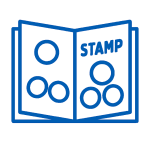
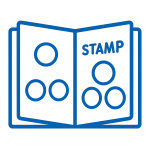
アイコン微調整

Changed region(s): [[0.0533, 0.1067, 0.96, 0.88], [0.2133, 0.24, 0.4, 0.4533]]

diff --git a/map.html b/map.html
@@ -33,6 +33,8 @@
     align-items:center;
     margin-bottom:clamp(10px,3vw,14px);
   }
+  /* ensure top icon row sits above the map and has breathing room */
+  .icon-row{ margin-bottom:12px; position:relative; z-index:1300 }
   .top-cell.left{grid-area:links; display:flex; justify-content:flex-start; gap:10px; flex-wrap:wrap}
   .top-cell.right{grid-area:icon; display:flex; justify-content:flex-end}
   .top-cell:nth-child(2){grid-area:book; display:block}
@@ -54,7 +56,7 @@
   }
   /* stamp icon button (left edge) */
   /* Top-row icons: unified rounded-square appearance for all five icons */
-  .stamp-icon-btn{appearance:none;border:1px solid #e3eaf6;padding:6px;background:#fff;border-radius:12px;display:inline-flex;align-items:center;justify-content:center;width:48px;height:48px;box-shadow:var(--menuShadow);cursor:pointer}
+  .stamp-icon-btn{appearance:none;border:1px solid #e3eaf6;padding:6px;background:#fff;border-radius:12px;display:inline-flex;align-items:center;justify-content:center;width:48px;height:48px;cursor:pointer}
   .stamp-icon-btn img{width:28px;height:28px;object-fit:contain}
   /* Make the stampbook icon match other icons in size; tint the stamp icon blue */
   #stampIconBtn{ width:48px; height:48px; padding:6px; border-radius:12px; background:#005ABB; border-color:#005ABB }
@@ -63,23 +65,19 @@
   /* icon-with-label: place icon at bottom and label at top within a fixed container
      so that all icons' bottoms align and label tops align across the row */
   .icon-with-label{
-    /* Use flex so label and icon align stably.
-       Label is ordered before the icon and the group is bottom-aligned
-       so when label wraps to two lines the lower line sits directly above the icon. */
+    /* Icon above, label below: stack column-start so icon sits at top */
     display:flex;
     flex-direction:column;
     align-items:center;
-    justify-content:flex-end; /* push content to bottom */
+    justify-content:flex-start; /* icon at top */
     height:72px;
     gap:6px;
     text-align:center;
   }
-  /* place label before icon so it sits directly above the icon */
-  .icon-with-label .icon-label{ order:-1; margin:0 }
   /* reset absolute positioning to use normal flow inside flex container */
   .icon-with-label .icon-btn,
   .icon-with-label .stamp-icon-btn{ position:static; transform:none }
-  .icon-btn{display:inline-flex;align-items:center;justify-content:center;border-radius:12px;padding:6px;background:#fff;border:1px solid #e3eaf6;width:48px;height:48px;box-shadow:var(--menuShadow);cursor:pointer}
+  .icon-btn{display:inline-flex;align-items:center;justify-content:center;border-radius:12px;padding:6px;background:#fff;border:1px solid #e3eaf6;width:48px;height:48px;cursor:pointer}
   .icon-btn img{width:28px;height:28px;display:block}
   .icon-label{
     font-size:12px;
@@ -95,7 +93,7 @@
   /* labels that should stay single-line and not constrained to the icon width */
   .icon-label.label-single{ width:auto; white-space:nowrap }
   /* stamp panel when expanded */
-  .stamp-panel{position:fixed;left:8px;top:68px;z-index:1200;display:none;background:#fff;border:1px solid #e3eaf6;border-radius:12px;box-shadow:0 18px 48px rgba(0,0,0,.28);overflow:hidden;padding:8px}
+  .stamp-panel{position:fixed;left:8px;top:56px;z-index:1200;display:none;background:#fff;border:1px solid #e3eaf6;border-radius:12px;box-shadow:0 18px 48px rgba(0,0,0,.28);overflow:hidden;padding:8px}
   .stamp-panel.is-open{display:block}
   /* make panel large enough to show all stamps at once while staying within viewport */
   /* When stamp panel expands, show stamps stacked vertically (3 visible rows) */
@@ -192,12 +190,21 @@
   .lang-switch{position:relative}
   .lang-btn{
     appearance:none;border:0;background:#fff;border:1px solid #e3eaf6;border-radius:12px;
-    padding:6px; cursor:pointer; box-shadow:var(--menuShadow);
+    padding:6px; cursor:pointer;
     /* match tutorial icon size */
     width:48px; height:48px; display:inline-flex; align-items:center; justify-content:center;
   }
   .lang-btn:focus-visible{outline:3px solid rgba(0,90,187,.35)}
   .lang-icon{width:28px;height:28px;display:block}
+
+  /* ensure all icon images are centered and contained (avoids visual padding in assets) */
+  .icon-btn img, .stamp-icon-btn img, .lang-icon{
+    object-fit:contain;
+    object-position:center;
+    width:28px;
+    height:28px;
+    display:block;
+  }
   .lang-menu{
     position:absolute; right:0; margin-top:8px; background:#fff; border:1px solid #e3eaf6; border-radius:12px;
     box-shadow:var(--menuShadow); display:none; min-width:160px; overflow:hidden; z-index:20;
@@ -339,26 +346,26 @@
       <!-- 上部：アイコン行（5列） -->
       <div class="icon-row" style="display:grid;grid-template-columns:repeat(5,1fr);gap:8px;align-items:center;">
         <div class="icon-with-label" style="justify-self:center">
-          <a id="entryIconBtn" class="icon-btn" href="entry.html"><img src="assets/images/ui/entry_icon.png" alt="ARあり/なし選択"></a>
+          <a id="entryIconBtn" class="icon-btn" href="entry.html"><img src="assets/images/ui/entry_icon.png?v=20251120" alt="ARあり/なし選択"></a>
           <div class="icon-label">ARあり/なし選択</div>
         </div>
         <div class="icon-with-label" style="justify-self:center">
-          <a id="tutorialIconBtn" class="icon-btn" href="tutorial.html"><img src="assets/images/ui/tutorial_icon.png" alt="使い方"></a>
+          <a id="tutorialIconBtn" class="icon-btn" href="tutorial.html"><img src="assets/images/ui/tutorial_icon.png?v=20251120" alt="使い方"></a>
           <div class="icon-label">使い方</div>
         </div>
         <div class="icon-with-label" style="justify-self:center">
           <button id="stampIconBtn" class="stamp-icon-btn" aria-haspopup="true" aria-expanded="false" aria-controls="stampPanel">
-            <img src="assets/images/ui/stamp_icon.png" alt="スタンプ帳">
+            <img src="assets/images/ui/stamp_icon.png?v=20251120" alt="スタンプ帳">
           </button>
           <div class="icon-label label-single">スタンプ帳</div>
         </div>
         <div class="icon-with-label" style="justify-self:center">
-          <a id="surveyIconBtn" class="icon-btn" href="post-survey.html?returnTo=map.html"><img src="assets/images/ui/survey_icon.png" alt="アンケート"></a>
+          <a id="surveyIconBtn" class="icon-btn" href="post-survey.html?returnTo=map.html"><img src="assets/images/ui/survey_icon.png?v=20251120" alt="アンケート"></a>
           <div class="icon-label label-single">アンケート</div>
         </div>
         <div class="icon-with-label" style="justify-self:center">
           <button id="langBtn" class="stamp-icon-btn lang-btn" type="button" aria-haspopup="true" aria-expanded="false" aria-controls="langMenu">
-            <img class="lang-icon" src="assets/images/ui/lang.png" alt="言語 / Language">
+            <img class="lang-icon" src="assets/images/ui/lang.png?v=20251120" alt="言語 / Language">
           </button>
           <div class="icon-label">言語</div>
           <div id="langMenu" class="lang-menu" role="menu" aria-label="Language">

diff --git a/map_noar.html b/map_noar.html
@@ -33,6 +33,8 @@
     align-items:center;
     margin-bottom:clamp(10px,3vw,14px);
   }
+  /* ensure top icon row sits above the map and has breathing room */
+  .icon-row{ margin-bottom:12px; position:relative; z-index:1300 }
   .top-cell.left{grid-area:links; display:flex; justify-content:flex-start; gap:10px; flex-wrap:wrap}
   .top-cell.right{grid-area:icon; display:flex; justify-content:flex-end}
   .top-cell:nth-child(2){grid-area:book; display:block}
@@ -53,22 +55,21 @@
     box-shadow:0 6px 24px rgba(0,0,0,.05);overflow:visible; /* パネルを重ねるため visible */
   }
   /* Top-row icons: unified rounded-square appearance for all five icons */
-  .stamp-icon-btn{appearance:none;border:1px solid #e3eaf6;padding:6px;background:#fff;border-radius:12px;display:inline-flex;align-items:center;justify-content:center;width:48px;height:48px;box-shadow:var(--menuShadow);cursor:pointer}
+  .stamp-icon-btn{appearance:none;border:1px solid #e3eaf6;padding:6px;background:#fff;border-radius:12px;display:inline-flex;align-items:center;justify-content:center;width:48px;height:48px;cursor:pointer}
   .stamp-icon-btn img{width:28px;height:28px;object-fit:contain}
   /* Stamp icon: match other icons' size and tint only this button */
   #stampIconBtn{ width:48px; height:48px; padding:6px; border-radius:12px; background:#005ABB; border-color:#005ABB }
   #stampIconBtn img{ width:28px; height:28px; filter:brightness(0) invert(1); }
-    /* Use flex to align label above icon and anchor the group to the bottom.
-      When the label wraps, its lower line will sit directly above the icon. */
-    .icon-with-label{ display:flex; flex-direction:column; align-items:center; justify-content:flex-end; height:72px; gap:6px; text-align:center }
-    .icon-with-label .icon-label{ order:-1; margin:0 }
+    /* Use flex to place icon above and label below (column-start). */
+    .icon-with-label{ display:flex; flex-direction:column; align-items:center; justify-content:flex-start; height:72px; gap:6px; text-align:center }
+    .icon-with-label .icon-label{ order:0; margin:0 }
     .icon-with-label .icon-btn, .icon-with-label .stamp-icon-btn{ position:static; transform:none }
-  .icon-btn{display:inline-flex;align-items:center;justify-content:center;border-radius:12px;padding:6px;background:#fff;border:1px solid #e3eaf6;width:48px;height:48px;box-shadow:var(--menuShadow);cursor:pointer}
+  .icon-btn{display:inline-flex;align-items:center;justify-content:center;border-radius:12px;padding:6px;background:#fff;border:1px solid #e3eaf6;width:48px;height:48px;cursor:pointer}
   .icon-btn img{width:28px;height:28px;display:block}
   .icon-label{font-size:12px;color:var(--accent);width:48px;text-align:center;white-space:normal;word-break:break-word;line-height:1.15;font-weight:800;display:block}
   .icon-label.label-single{ width:auto; white-space:nowrap }
   /* stamp panel when expanded (floating) */
-  .stamp-panel{position:fixed;left:8px;top:68px;z-index:1200;display:none;background:#fff;border:1px solid #e3eaf6;border-radius:12px;box-shadow:0 18px 48px rgba(0,0,0,.28);overflow:hidden;padding:8px}
+  .stamp-panel{position:fixed;left:8px;top:56px;z-index:1200;display:none;background:#fff;border:1px solid #e3eaf6;border-radius:12px;box-shadow:0 18px 48px rgba(0,0,0,.28);overflow:hidden;padding:8px}
   .stamp-panel.is-open{display:block}
   .stamp-panel-inner{display:grid;grid-template-columns:1fr;gap:12px;width:min(86vw,360px);max-width:360px;max-height:calc(100vh - 140px);overflow:auto;padding:12px}
   .stamp-panel .stamp-item{display:flex;flex-direction:column;align-items:center;gap:6px;padding:6px;border-radius:10px;width:100%}
@@ -148,7 +149,7 @@
   .lang-switch{position:relative}
   .lang-btn{
     appearance:none;border:0;background:#fff;border:1px solid #e3eaf6;border-radius:12px;
-    padding:6px; cursor:pointer; box-shadow:var(--menuShadow);
+    padding:6px; cursor:pointer;
     /* match tutorial icon size */
     width:48px; height:48px; display:inline-flex; align-items:center; justify-content:center;
   }

diff --git a/tutorial_noar.html b/tutorial_noar.html
@@ -16,7 +16,7 @@
     .btn-secondary{background:#e9eef6;color:#111}
   .footerSpace{height:max(8px, env(safe-area-inset-bottom))}
   .lang-switch{position:fixed; right:12px; top:12px}
-  .lang-btn{appearance:none;border:0;background:#fff;border:1px solid #e3eaf6;border-radius:12px;padding:6px; cursor:pointer; box-shadow:0 10px 28px rgba(0,0,0,.15)}
+  .lang-btn{appearance:none;border:0;background:#fff;border:1px solid #e3eaf6;border-radius:12px;padding:6px; cursor:pointer}
   .lang-btn:focus-visible{outline:3px solid rgba(0,90,187,.35)}
   .lang-icon{width:28px;height:28px;display:block}
   .lang-menu{position:absolute; right:0; margin-top:8px; background:#fff; border:1px solid #e3eaf6; border-radius:12px; box-shadow:0 10px 28px rgba(0,0,0,.15); display:none; min-width:160px; overflow:hidden}

diff --git a/tutorial.html b/tutorial.html
@@ -101,7 +101,7 @@
     .lang-switch{position:fixed; right:12px; top:12px; z-index:2147483647}
     .lang-btn{
       appearance:none;border:0;background:#fff;border:1px solid #e3eaf6;border-radius:12px;
-      padding:6px; cursor:pointer; box-shadow:0 10px 28px rgba(0,0,0,.15)
+      padding:6px; cursor:pointer;
     }
     .lang-btn:focus-visible{outline:3px solid rgba(0,90,187,.35)}
     .lang-icon{width:28px;height:28px;display:block}

diff --git a/post-survey.html b/post-survey.html
@@ -14,7 +14,7 @@
     .lang-switch{position:fixed; right:12px; top:12px; z-index:2147483647}
     .lang-btn{
       appearance:none;border:0;background:#fff;border:1px solid #e3eaf6;border-radius:12px;
-      padding:6px; cursor:pointer; box-shadow:0 10px 28px rgba(0,0,0,.15)
+      padding:6px; cursor:pointer;
     }
     .lang-btn:focus-visible{outline:3px solid rgba(0,90,187,.35)}
     .lang-icon{width:28px;height:28px;display:block}

diff --git a/special.html b/special.html
@@ -44,7 +44,7 @@
     .lang-switch{position:fixed; right:12px; top:12px; z-index:2147483647}
     .lang-btn{
       appearance:none;border:0;background:#fff;border:1px solid #e3eaf6;border-radius:12px;
-      padding:6px; cursor:pointer; box-shadow:0 10px 28px rgba(0,0,0,.15)
+      padding:6px; cursor:pointer;
     }
     .lang-btn:focus-visible{outline:3px solid rgba(0,90,187,.35)}
     .lang-icon{width:28px;height:28px;display:block}

diff --git a/terms.html b/terms.html
@@ -30,7 +30,7 @@
     .lang-switch{position:fixed; right:12px; top:12px; z-index:2147483647}
     .lang-btn{
       appearance:none;border:0;background:#fff;border:1px solid #e3eaf6;border-radius:12px;
-      padding:6px; cursor:pointer; box-shadow:0 10px 28px rgba(0,0,0,.15)
+      padding:6px; cursor:pointer;
     }
     .lang-btn:focus-visible{outline:3px solid rgba(0,90,187,.35)}
     .lang-icon{width:28px;height:28px;display:block}
